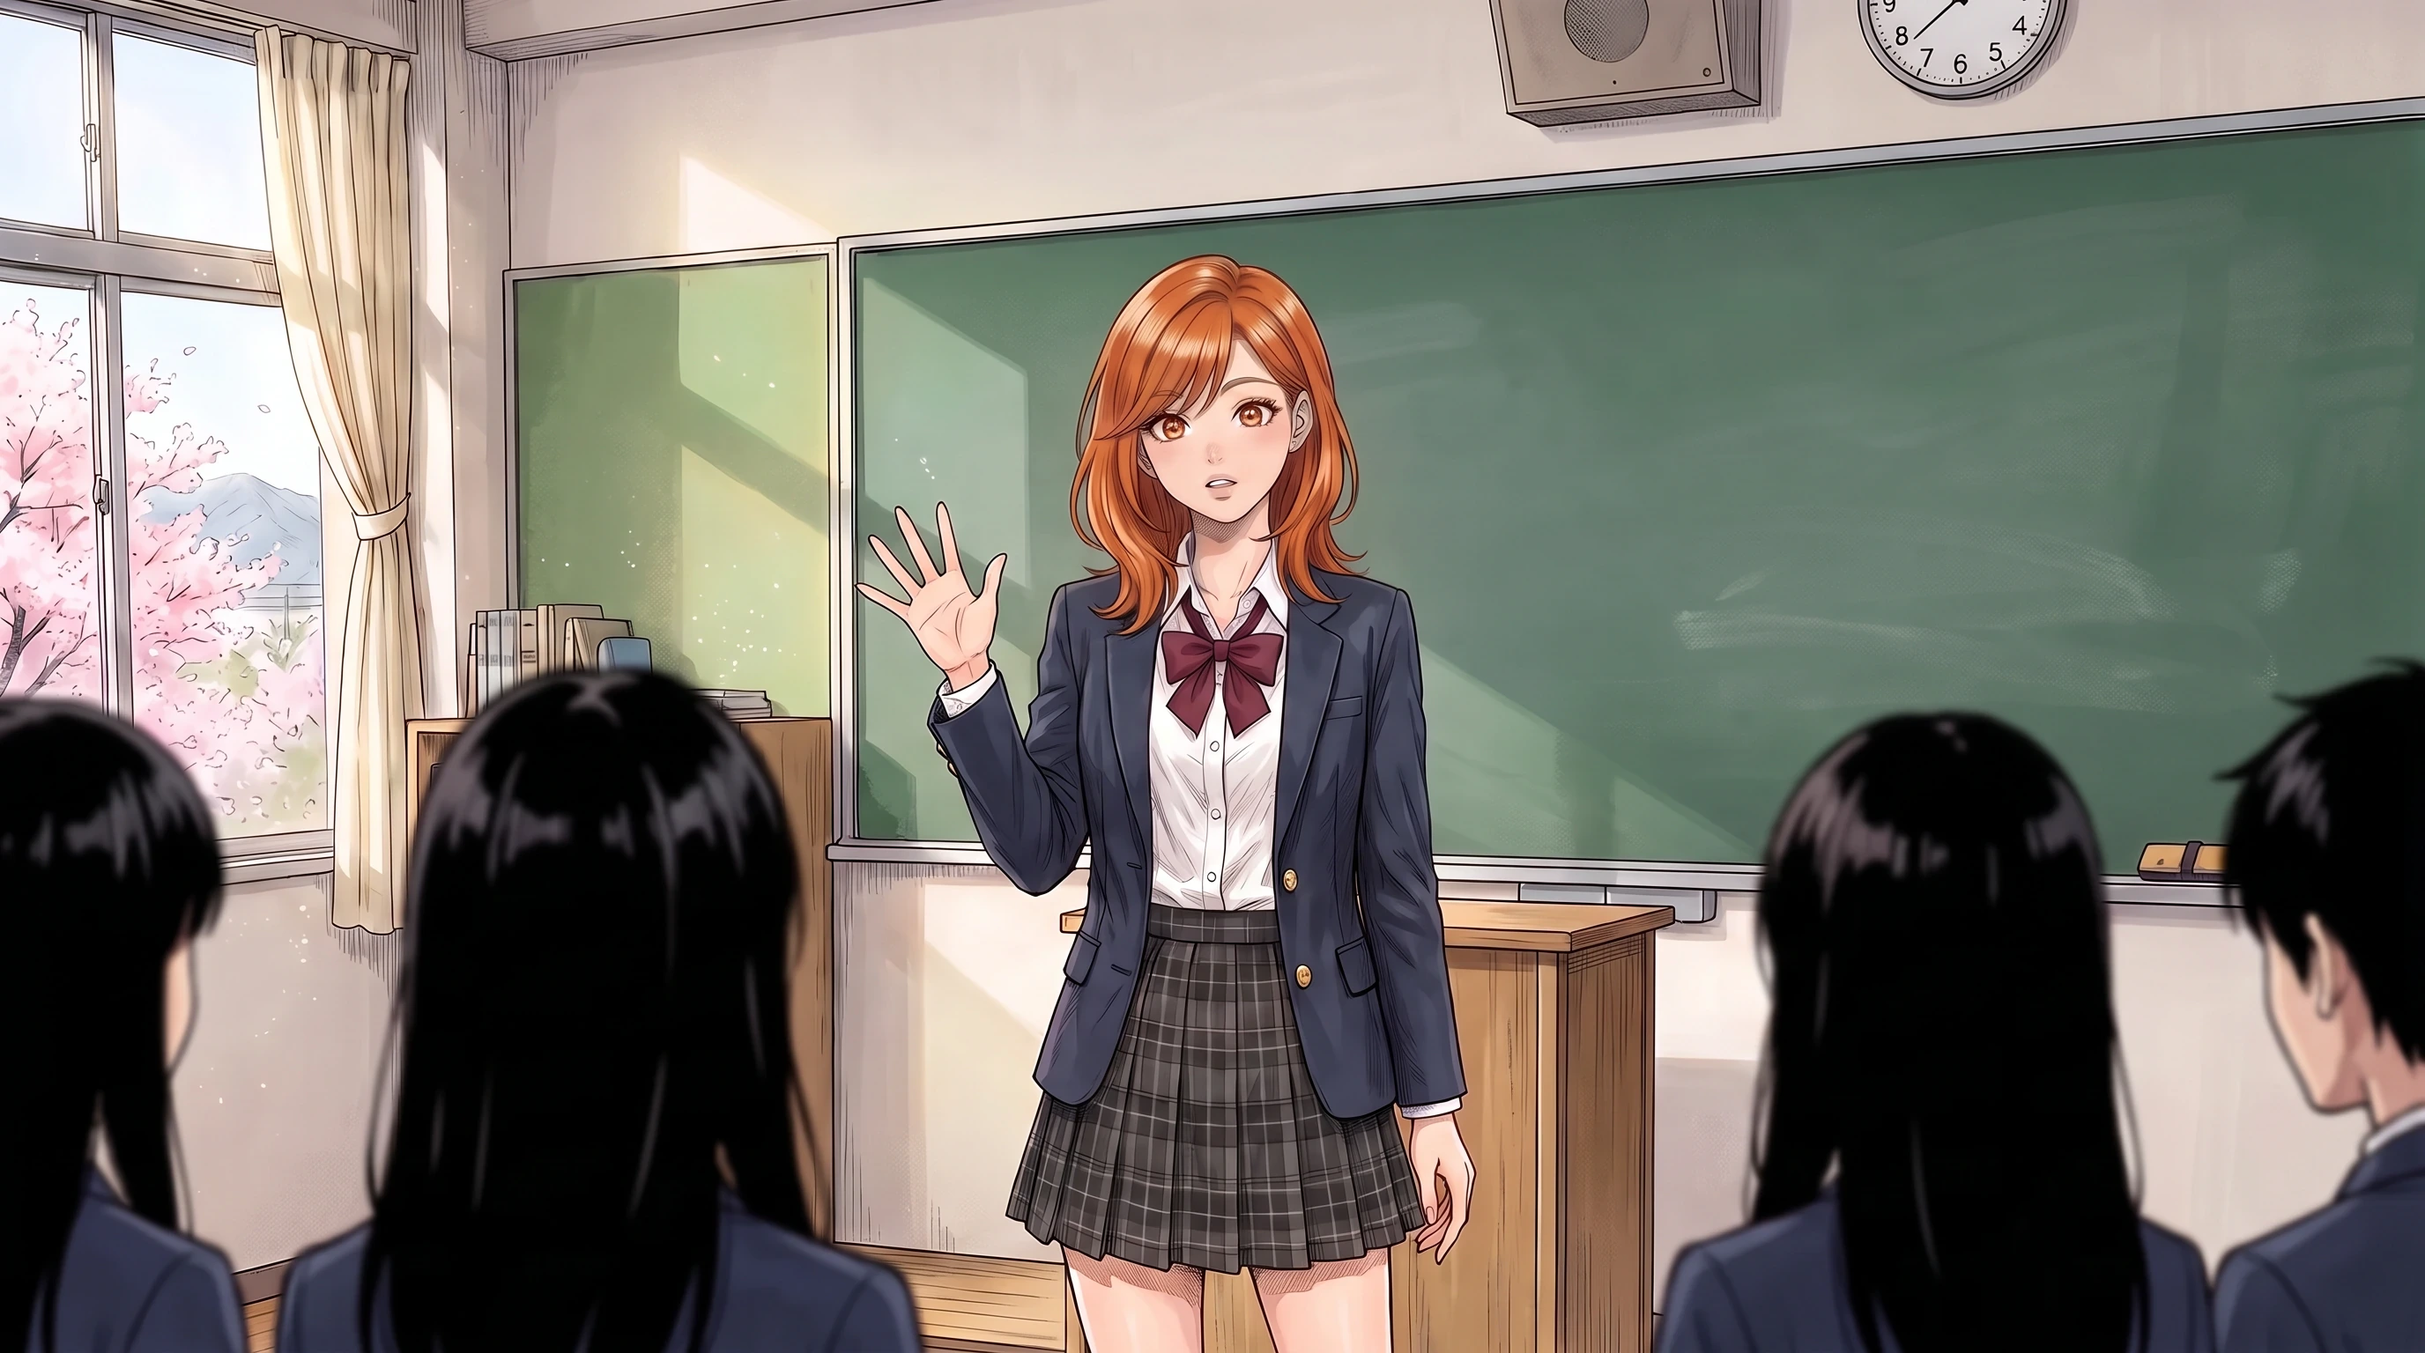
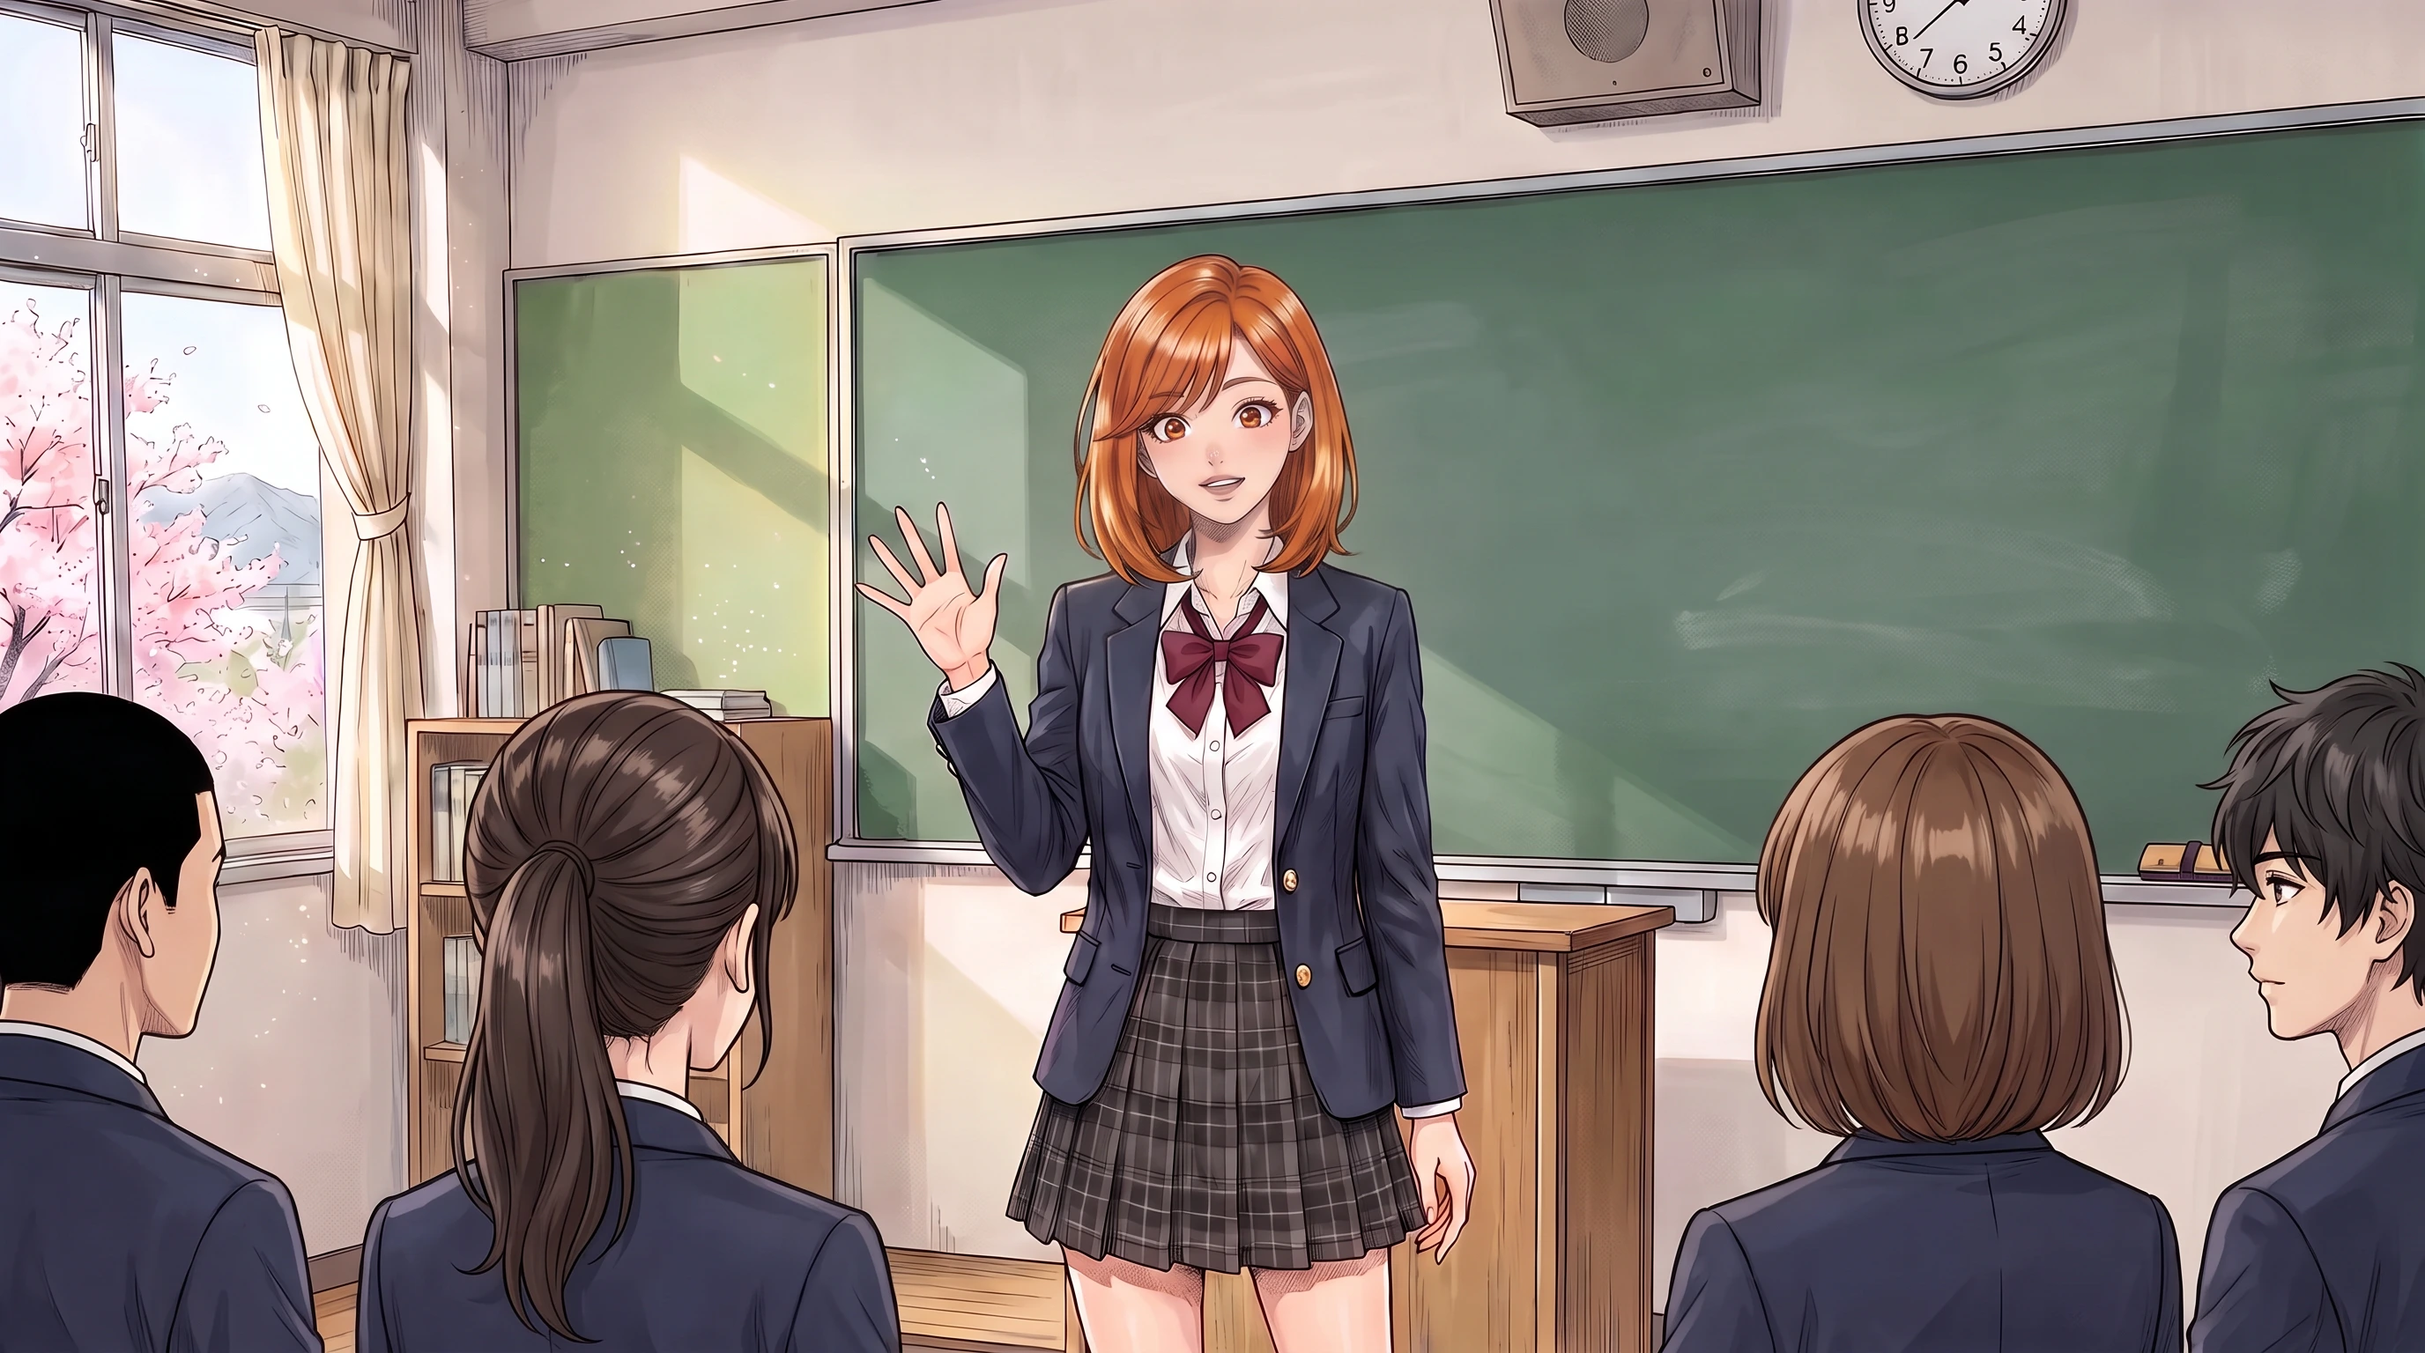
Ch1 art: intro CG hair and classmates fixed, falter redone on the new base; face composite tool; prompts logged
Claude-Session: https://claude.ai/code/session_01RwxJ99cbnypmrRJW8WLjFt

diff --git a/production/pipeline/vn/face_composite.py b/production/pipeline/vn/face_composite.py
@@ -1,0 +1,56 @@
+#!/usr/bin/env python3
+"""Paste only the face of an expression edit back onto its base CG, through a feathered ellipse,
+so nothing else in the frame moves when the engine crossfades between the two (e.g. cg_natsuki_intro
+-> cg_natsuki_intro_falter).
+
+  face_composite.py BASE VARIANT OUT --center CX CY --radius RX RY [--feather PX]
+  face_composite.py BASE VARIANT --diff          # print where the two images differ, to place the ellipse
+
+Center and radius are fractions of the image width/height. The variant is resized to the base if needed.
+"""
+import argparse
+import numpy as np
+from PIL import Image, ImageDraw, ImageFilter
+
+
+def load(base, var):
+    b = Image.open(base).convert("RGB")
+    v = Image.open(var).convert("RGB")
+    if v.size != b.size:
+        v = v.resize(b.size, Image.LANCZOS)
+    return b, v
+
+
+def diff_report(b, v, thresh=40):
+    d = np.abs(np.asarray(b, np.int16) - np.asarray(v, np.int16)).max(axis=2)
+    h, w = d.shape
+    # coarse grid: share of strongly changed pixels per 1/20 cell
+    gy, gx = 20, 20
+    print("changed-pixel share per cell (rows top->bottom, %):")
+    for r in range(gy):
+        row = d[r * h // gy:(r + 1) * h // gy]
+        cells = [int(100 * (row[:, c * w // gx:(c + 1) * w // gx] > thresh).mean()) for c in range(gx)]
+        print(" ".join(f"{x:3d}" for x in cells))
+
+
+def composite(b, v, cx, cy, rx, ry, feather):
+    w, h = b.size
+    m = Image.new("L", (w, h), 0)
+    ImageDraw.Draw(m).ellipse([(cx - rx) * w, (cy - ry) * h, (cx + rx) * w, (cy + ry) * h], fill=255)
+    m = m.filter(ImageFilter.GaussianBlur(feather))
+    return Image.composite(v, b, m)
+
+
+if __name__ == "__main__":
+    ap = argparse.ArgumentParser()
+    ap.add_argument("base"); ap.add_argument("variant"); ap.add_argument("out", nargs="?")
+    ap.add_argument("--center", nargs=2, type=float); ap.add_argument("--radius", nargs=2, type=float)
+    ap.add_argument("--feather", type=float, default=18)
+    ap.add_argument("--diff", action="store_true")
+    a = ap.parse_args()
+    b, v = load(a.base, a.variant)
+    if a.diff:
+        diff_report(b, v)
+    else:
+        composite(b, v, *a.center, *a.radius, a.feather).save(a.out, quality=95)
+        print("wrote", a.out)

diff --git a/production/pilot-v2/art/prompts.md b/production/pilot-v2/art/prompts.md
@@ -28,3 +28,34 @@ Refs are raw GitHub URLs (`https://raw.githubusercontent.com/thefirstmccabe/ozak
 ### First version (superseded)
 - `fal-ai/nano-banana-pro/edit`, 2K, 16:9. Refs: `img/ch/nanoha_school_smile.webp`, `production/refs/inventory/full-kohei.png`, `img/bg/bg_river_morning.webp`. 2 takes; **picked seed 23** (her hands on his collar; the other had her holding his tie). It dropped her hair clip, so one more edit added it back with a petal on it ("Edit image 1: add the girl's small hair clip from image 2 … with one cherry petal resting right on the clip. Keep everything else in image 1 exactly identical …", refs: the pick + the Nanoha sprite). **Then mirrored horizontally** (the independent review caught that her braid and clip came out on her right; her design has them on her left). Her hands sit at about chin height although the script says she stretches; a regenerate with her arms raised is an option (new spend).
 - Prompt: "A quiet spring morning on the riverside path in image 3 (same path, river, embankment, cherry trees in full bloom and soft morning light). Nanoha (image 1: keep her face, warm skin tone, long dark-brown hair with its side braid and hair clip, and her uniform exactly) has stopped in front of Kohei (image 2: keep his face, short messy dark-brown hair and build exactly) and stands up on her toes, both hands at his neck, folding his white shirt collar down neatly over his tie. She is 4 feet 11 inches and he is 5 feet 9 inches, so she has to stretch to reach; the top of her head comes up to his chin. He stands still, looking down at her with a slightly surprised, patient half-smile. She looks at the collar, focused, with a small private smile. Medium two-shot from the side at a three-quarter angle, from the waist up, both faces clearly visible, the river and the cherry trees behind them, a few petals drifting in the air and one petal resting on her hair clip. School uniforms: navy blazers with gold buttons, white shirts, a burgundy tie on him, a burgundy ribbon on her, charcoal plaid pleated skirt. Natural, age-appropriate proportions for two 16-year-olds. Style: detailed expressive ink linework with natural soft painted color, Japanese manga illustration, delicate hatching texture on fabric. FULL NATURAL COLOR, absolutely not grayscale. No text, no border, no panel frames."
+
+# Ch1 revision (Oct 18; shot list `art/shotlist-ch1-oct18.md`)
+
+Made before the cold readers, not after the writing gates as §9 orders, because the outline (P.0) says the cold-read packet includes the cold-open images, and the dream and intro fixes change what readers see. Text-independent images only.
+
+## cg_cold_mirror (P.0)
+- `fal-ai/nano-banana-pro/edit`, 2K, 16:9. Refs: `production/refs/locations/houses-street.png`, `v2/img/bg/bg_river_morning.webp` (style and town look only). 2 takes; **picked seed 101** (thick gray-green mist, hedge, block wall, poles; seed 102 was warmer and more detailed, closer to an ordinary morning).
+- Prompt: "Use images 1 and 2 only as references for the art style, the rendering and the look of this small Japanese town; do not copy their layout or their time of day. Paint a new background illustration: early morning in thick mist on a narrow modern residential road in a small Japanese town at the foot of the mountains. The road curves away to the left between a low trimmed hedge and a gray concrete block wall. At the bend stands a single orange convex traffic mirror on a tall thin pole, its round glass reflecting only more pale mist. Wooden utility poles with sagging wires fade into the fog behind it. Nobody is in the frame. Misty early-morning light: a cool gray-green palette, very low contrast, soft diffuse light, no sun disc, no hard shadows; everything more than about 60 feet away dissolves into white-gray mist. Quiet, still and faintly ominous. No people, no animals, no text, no signs with writing, no cherry blossoms, no petals, no trees in bloom, no large tree, no boulder. Style: detailed expressive ink linework with natural soft painted color, Japanese manga illustration, like the painted backgrounds in images 1 and 2. FULL NATURAL COLOR muted by the mist, absolutely not grayscale. A natural cinematic composition that fills the whole canvas, with no borders and no panel frames."
+
+## cg_cold_hand (P.0)
+- `fal-ai/nano-banana-pro/edit`, 2K, 16:9. Refs: the mirror pick (palette), `production/refs/locations/houses-street.png`. 2 takes; **picked seed 112** (hand on the grip of a sheathed sword at his side, about to draw; seed 111 drew cord wrapping on the blade side of the guard). His torso shows to mid-chest in the zip jacket; no face.
+- Prompt: "Image 1 sets the exact palette, light, mist and art style; image 2 is only an extra style reference. Paint a new illustration in exactly the misty early-morning look of image 1: a tight close-up of a young man's right hand, in the cuff of a plain dark navy modern zip-up jacket, closing hard on the wrapped grip of a Japanese sword. Only the grip, with its dark diamond-pattern cord wrapping, and the round dark iron guard are in the frame; the sword is held low, angled down, and the blade is entirely out of frame and never visible. Nothing else of him is visible: no face, no body beyond the wrist and the end of the sleeve. Behind the hand there is only thick pale gray-green mist, softly out of focus. Cool gray-green palette, very low contrast, soft diffuse light, no sun. Tense and still. No other figures, no blood, no petals, no kimono, no armor, no text. Style: detailed expressive ink linework with natural soft painted color, Japanese manga illustration. FULL NATURAL COLOR muted by the mist, absolutely not grayscale. Fill the whole canvas, no borders, no panel frames."
+
+## cg_cold_mist (P.0) and its living still
+- `fal-ai/nano-banana-pro/edit`, 2K, 16:9. Ref: the mirror pick. 2 takes; **picked seed 122** (the mist parts on both sides of the road like something huge passing; seed 121's curls were more decorative). Checked full size: no shape, silhouette or eyes in the mist.
+- Prompt: "Image 1 is the same place a little earlier: keep its exact palette, light, mist and art style. Paint the next view along the same narrow modern road, just past the bend with the orange traffic mirror (the mirror is now out of frame behind us). In the near foreground at the left, the corner of the gray concrete block wall and one wooden utility pole; beyond them the road runs straight ahead and disappears into a wall of thick mist. The mist is not still: in the middle distance it heaves and rolls in huge slow curls, swelling outward and parting as if it is being pushed aside by something enormous moving inside it, out of sight. Nothing is visible inside the mist: no shape, no silhouette, no shadow figure, no eyes, no creature, no animal outline, only the swelling motion of the fog itself. Cool gray-green palette, very low contrast, soft diffuse light, no sun disc. Ominous and silent. No people, no animals, no trees in bloom, no large tree, no boulder, no petals, no text. Style: detailed expressive ink linework with natural soft painted color, Japanese manga illustration. FULL NATURAL COLOR muted by the mist, absolutely not grayscale. Fill the whole canvas, no borders, no panel frames."
+- **Living still** `v2/img/live/cg_cold_mist.mp4`: `fal-ai/kling-video/v3/pro/image-to-video`, 4 s, start = end = the pick, audio off; trimmed to 4.0 s, scaled to 1920×1072, H.264 CRF 23. Frames checked at 0.5/1.3/2.0/2.7/3.5 s: static camera, nothing appears.
+  - Prompt: "Locked-off static camera, no camera movement at all. The thick gray-green mist over the empty road rolls and heaves very slowly, its huge curls swelling and drifting as if something enormous is moving inside it, unseen. Nothing appears in the mist. The wall, the utility poles, the wires and the road stay perfectly still. Seamless loop: the last frame matches the first."
+  - Negative: "camera movement, zoom, pan, creature, animal, silhouette, figure, person, eyes, face, wolf, monster, shadow shape, petals, snow, rain, blur, distort, low quality, flicker".
+
+## cg_dream (inside-wrist edit) and its living still
+- `fal-ai/nano-banana-pro/edit`, 2K, 16:9. Ref: the Oct 17 master (`art/masters/cg_dream.webp` at bbd4a10^). 2 takes; **picked seed 132** (palm up, five digits, the stain on the inside of the wrist; seed 131 was nearly the same, fingers stiffer). His hand is now his left (thumb on the far side), which matches the callus line just before the dream; no callus drawn. Her face and hair stay out of frame.
+- Prompt: "Edit image 1: turn the man's forearm over so that the INSIDE of his wrist faces up toward the viewer: his hand is now palm up, fingers relaxed and loosely curled upward, the back of his hand facing down and resting in the woman's lower hand. The strip of pale cloth is being wound around the inside of his wrist, and the small red bloodstain shows through the cloth on the inside of the wrist, on the palm side, just below the heel of his hand. Keep everything else exactly identical: her two hands and their positions winding the cloth, her striped kimono sleeves and sash, his dark sleeve, the sword grip at the left, the cherry branch and the petals, the misty pale light, the framing, the art style and the colors. Her face and her hair stay completely out of frame. No new figures, no text."
+- **Living still** `v2/img/live/cg_dream.mp4` (replaces the Oct 17 loop, which showed the old wrist): Kling v3 Pro, 4 s, start = end = the pick, audio off; same encode. Hand checked at 2.0 and 3.0 s: stays palm up, no morphing.
+  - Prompt: "Locked-off static camera, no camera movement at all. A gentle breeze: a few cherry petals drift slowly down through the frame, the cherry branch sways very slightly, and the loose end of the pale cloth strip stirs and lifts a little. Her hands make only a tiny, careful tightening motion on the cloth. His hand stays still, palm up. Everything else is still. Soft misty light. Seamless loop: the last frame matches the first."
+  - Negative: "camera movement, zoom, pan, face, head, hair, new person, extra fingers, extra hands, morphing hands, blood spreading, blur, distort, low quality, flicker".
+
+## cg_natsuki_intro (hair and classmates) and cg_natsuki_intro_falter
+- `fal-ai/nano-banana-pro/edit`, 2K, 16:9. Refs: the Oct 17 master (`art/masters/cg_natsuki_intro.webp` at bbd4a10), `v2/img/ch/natsuki_school_smile.webp` (hair length). 2 takes; **picked seed 142** (hair ends at her shoulders, tucked behind her left ear; seed 141's still ran past the shoulders). Foreground now: a boy with a buzz cut, a girl with a ponytail, a girl with a bob, a boy in profile.
+- Prompt: "Edit image 1. Change ONLY two things. (1) The copper-haired girl's hair: cut it so it ends neatly at her shoulders, exactly the length and layered cut of the girl in image 2, glossy and neat with a side-swept fringe, and with the hair on one side tucked behind her ear so that ear shows. Her hair must not reach below her shoulders. (2) The four classmates in the foreground, seen from behind: make them four clearly different students in the same navy blazers: at the far left a boy with short cropped black hair; second from left a girl with dark brown hair in a ponytail; second from right a girl with a chin-length medium-brown bob; at the far right a boy with short messy dark hair, his head turned a little so his profile shows. Keep everything else exactly identical: the girl's face, eyes, smile, raised waving hand, pose, body, uniform and proportions, the classroom, the blackboard, the window with the cherry tree, the light, the framing, the art style and the colors. FULL NATURAL COLOR, absolutely not grayscale. No text."
+- **Falter:** the Oct 17 falter prompt (above) on the new base, 2 takes; **picked seed 151** (half smile, eyes wider; seed 152 lost the smile entirely and added a mole under one eye). Only the face kept: `production/pipeline/vn/face_composite.py BASE VARIANT OUT --center 0.503 0.318 --radius 0.042 0.082 --feather 16`; changed area measured at x 0.46–0.54, y 0.24–0.40 of the frame, so nothing else moves in the crossfade.
